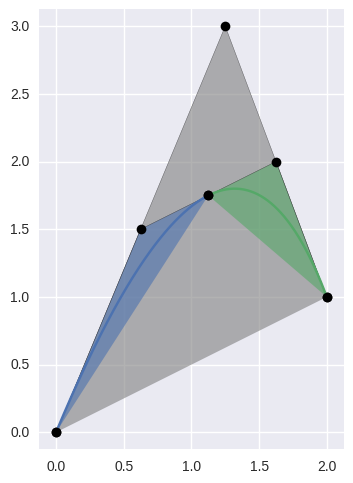
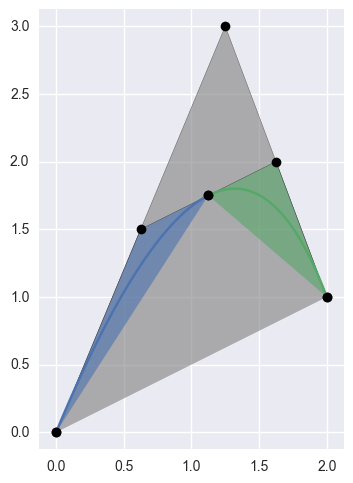
Moving more image creation into doctest cleanup.
Also adding note to "dev doc" about the docs image
creation process.

diff --git a/docs/make_images.py b/docs/make_images.py
@@ -283,17 +283,15 @@ def add_patch(ax, nodes, color, with_nodes=True):
                 linestyle='None', marker='o')
 
 
-def curve_constructor():
+def curve_constructor(curve):
     """Image for :class`.Curve` docstring."""
-    nodes = np.array([
-        [0.0  , 0.0],
-        [0.625, 0.5],
-        [1.0  , 0.5],
-    ])
-    curve = bezier.Curve(nodes)
+    if NO_IMAGES:
+        return
 
     ax = curve.plot(256)
     line = ax.lines[0]
+
+    nodes = curve._nodes
     ax.plot(nodes[:, 0], nodes[:, 1], color='black',
             linestyle='None', marker='o')
     add_patch(ax, nodes, line.get_color())
@@ -304,13 +302,10 @@ def curve_constructor():
     save_image(ax.figure, 'curve_constructor.png')
 
 
-def curve_evaluate():
+def curve_evaluate(curve):
     """Image for :meth`.Curve.evaluate` docstring."""
-    curve = bezier.Curve(np.array([
-        [0.0  , 0.0],
-        [0.625, 0.5],
-        [1.0  , 0.5],
-    ]))
+    if NO_IMAGES:
+        return
 
     ax = curve.plot(256)
     points = curve.evaluate_multi(np.array([0.75]))
@@ -323,14 +318,10 @@ def curve_evaluate():
     save_image(ax.figure, 'curve_evaluate.png')
 
 
-def curve_subdivide():
+def curve_subdivide(curve, left, right):
     """Image for :meth`.Curve.subdivide` docstring."""
-    curve = bezier.Curve(np.array([
-        [0.0, 0.0],
-        [1.25, 3.0],
-        [2.0, 1.0],
-    ]))
-    left, right = curve.subdivide()
+    if NO_IMAGES:
+        return
 
     figure = plt.figure()
     ax = figure.gca()
@@ -350,22 +341,15 @@ def curve_subdivide():
     save_image(ax.figure, 'curve_subdivide.png')
 
 
-def curve_intersect():
+def curve_intersect(curve1, curve2, intersections):
     """Image for :meth`.Curve.intersect` docstring."""
-    curve1 = bezier.Curve(np.array([
-        [0.0, 0.0],
-        [0.375, 0.75],
-        [0.75, 0.375],
-    ]))
-    curve2 = bezier.Curve(np.array([
-        [0.5, 0.0],
-        [0.5, 0.75],
-    ]))
+    if NO_IMAGES:
+        return
 
     ax = curve1.plot(256)
     curve2.plot(256, ax=ax)
-    ax.plot([0.5], [0.5], color='black',
-            linestyle='None', marker='o')
+    ax.plot(intersections[:, 0], intersections[:, 1],
+            color='black', linestyle='None', marker='o')
 
     ax.axis('scaled')
     ax.set_xlim(0.0, 0.75)
@@ -719,10 +703,6 @@ def main():
     parallel_different2()
     parallel_different3()
     parallel_different4()
-    curve_constructor()
-    curve_evaluate()
-    curve_subdivide()
-    curve_intersect()
     surface_constructor()
     surface_evaluate_barycentric()
     surface_evaluate_multi1()

diff --git a/bezier/curve.py b/bezier/curve.py
@@ -79,7 +79,7 @@ class Curve(_base.Base):
     .. image:: ../images/curve_constructor.png
        :align: center
 
-    .. doctest:: curve-ctor
+    .. doctest:: curve-constructor
 
        >>> import bezier
        >>> nodes = np.array([
@@ -90,6 +90,11 @@ class Curve(_base.Base):
        >>> curve = bezier.Curve(nodes)
        >>> curve
        <Curve (degree=2, dimension=2)>
+
+    .. testcleanup:: curve-constructor
+
+       import make_images
+       make_images.curve_constructor(curve)
 
     Args:
         nodes (numpy.ndarray): The nodes in the curve. The rows
@@ -250,6 +255,11 @@ class Curve(_base.Base):
            >>> curve.evaluate(0.75)
            array([ 0.796875, 0.46875 ])
 
+        .. testcleanup:: curve-eval
+
+           import make_images
+           make_images.curve_evaluate(curve)
+
         Args:
             s (float): Parameter along the curve.
 
@@ -384,6 +394,11 @@ class Curve(_base.Base):
                   [ 1.625, 2.   ],
                   [ 2.   , 1.   ]])
 
+        .. testcleanup:: curve-subdivide
+
+           import make_images
+           make_images.curve_subdivide(curve, left, right)
+
         Returns:
             Tuple[Curve, Curve]: The left and right sub-curves.
         """
@@ -434,8 +449,14 @@ class Curve(_base.Base):
            ...     [0.5, 0.75],
            ... ])
            >>> curve2 = bezier.Curve(nodes2)
-           >>> curve1.intersect(curve2)
+           >>> intersections = curve1.intersect(curve2)
+           >>> intersections
            array([[ 0.5, 0.5]])
+
+        .. testcleanup:: curve-intersect
+
+           import make_images
+           make_images.curve_intersect(curve1, curve2, intersections)
 
         Args:
             other (Curve): Other curve to intersect with.

diff --git a/DEVELOPMENT.rst b/DEVELOPMENT.rst
@@ -214,6 +214,26 @@ To run the documentation tests:
 
    $ tox -e doctest
    $ # OR
+   $ NO_IMAGES=True sphinx-build -W \
+   >   -b doctest \
+   >   -d docs/build/doctrees \
+   >   docs \
+   >   build/doctest
+
+Documentation Images
+====================
+
+Many images are included to illustrate the curves / surfaces / etc.
+under consideration and to display the result of the operation
+being described. To keep these images up-to-date with the doctest
+snippets, the images are created as doctest cleanup.
+
+To regenerate the images:
+
+.. code-block:: console
+
+   $ tox -e docs-images
+   $ # OR
    $ sphinx-build -W \
    >   -b doctest \
    >   -d docs/build/doctrees \
